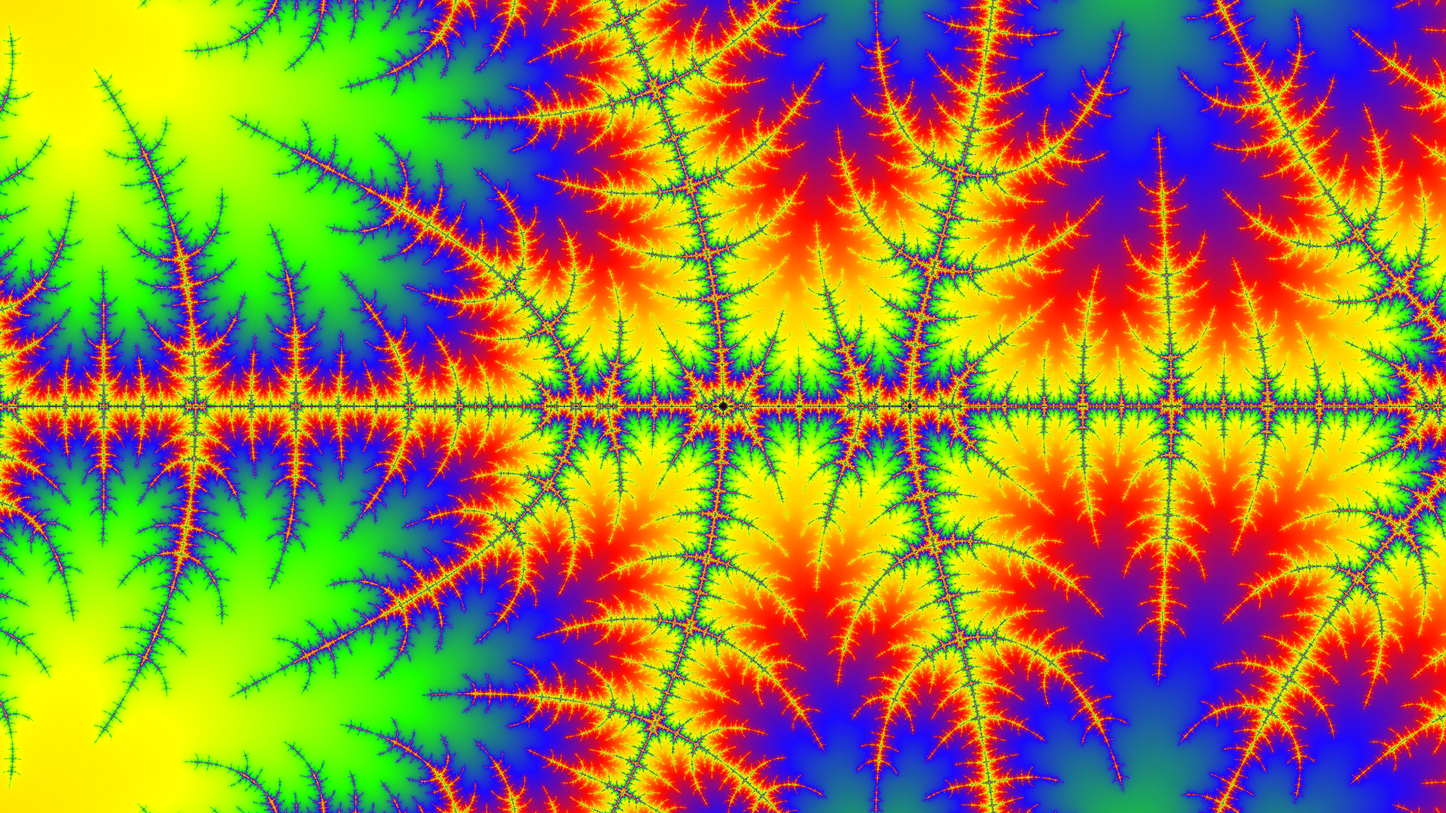
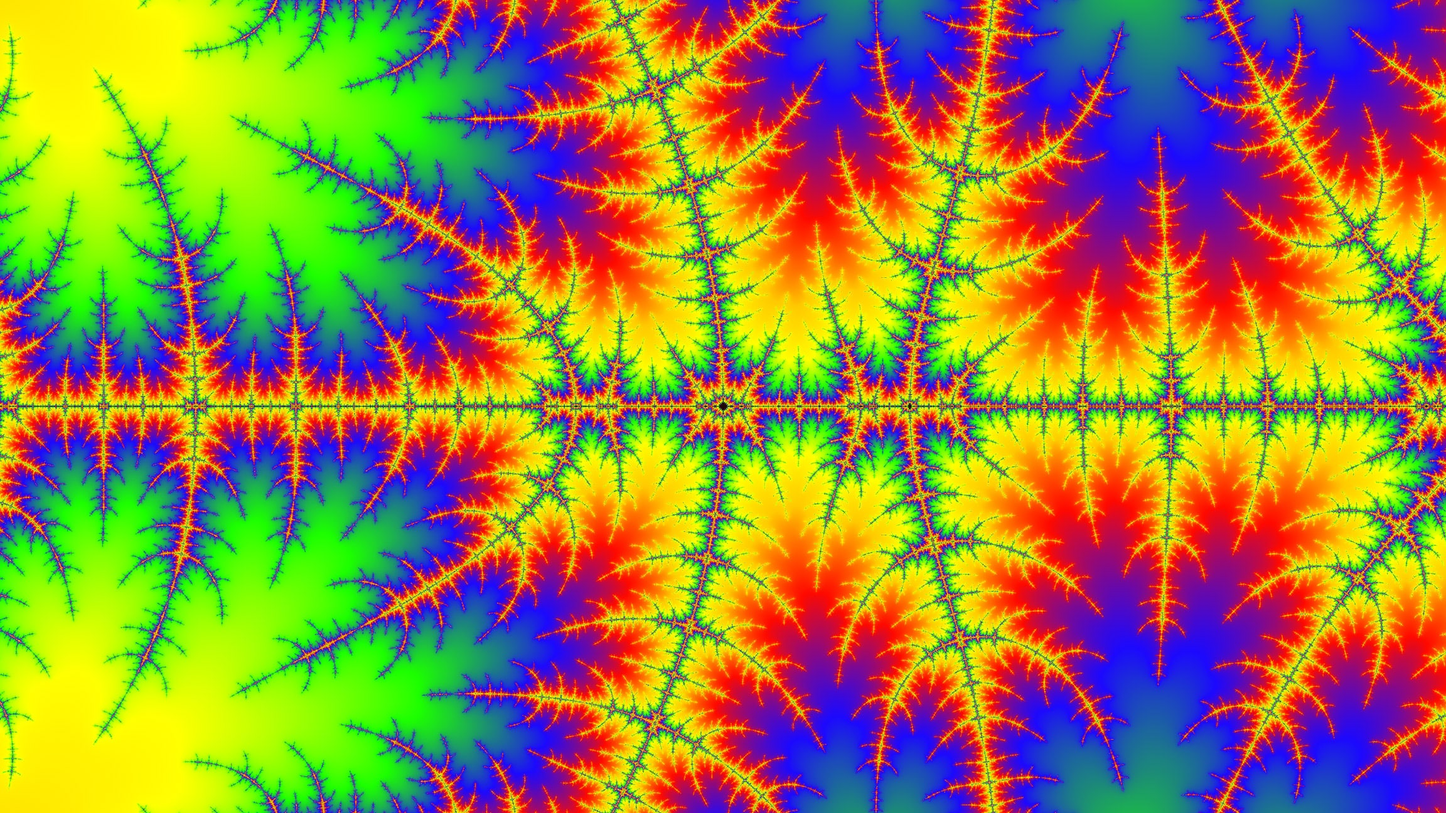
optimized images, added subtitles

diff --git a/mandelbrot.html b/mandelbrot.html
@@ -138,8 +138,13 @@
 							</td>
 						</tr>
 					</table>
+					
+					<div class="font subtitle" style="text-decoration: underline;">What is the Mandelbrot set?</div>
 
-					<div id="player" style="width: 50%; max-width:50em; height:auto;"></div>
+					<div class="videoContainer" style="position: relative; padding-bottom: 28.25%; height:0; width:50%; float: right; margin:1em;">
+						<div id="player" style="position:absolute; top:0; left:0; width:100%; height:100%;"></div>
+					</div>
+					
 					<script>
 					  var tag = document.createElement('script');
 					  tag.src = "https://www.youtube.com/iframe_api";
@@ -192,23 +197,28 @@
 						<br>
 						You then iterate the equation many times, noting the absolute value (distance from the origin) of 
 						\(z\). The value can either grow to infinity or stay bounded near 0. If the value remains 
-						bounded, it is considered to be within the Mandelbrot set and is colored black within the graph. 
+						bounded, it is considered to be within the Mandelbrot set and is colored black on the graph. 
 						All the other colors are derived from how quickly that point diverges, measured by how many 
 						iterations are needed to exceed an arbitrary threshold (2 in this case). In order to say 
-						that a specific \(c\) value is bounded, we must iterate to a limit, else the calculation 
+						that a specific \(c\) value is bounded, we must set a limit, else the calculation 
 						would continue forever! We can increase this limit of iterations, and in doing so, 
-						discover points on the graph that were previously thought to be bounded that are actually unbounded.<br>
-						<br>
+						discover points on the graph that were previously thought to be bounded that are actually unbounded.
 						I was first introduced to this mathematical concept by a popular YouTube channel named <a href="https://www.youtube.com/c/vsauce1" target="_blank">Vsauce</a>. 
 						After watching his <a href="https://www.youtube.com/watch?v=MwjsO6aniig" target="_blank">video</a> I decided I wanted to try to write a program in Java that would generate 
-						a graph of the Mandelbrot set. I had to learn about 2D graphics rendering in Java in order to 
+						a graph of the Mandelbrot set. 
+					</p>
+
+					<div class="font subtitle" style="text-decoration: underline;">The Application</div>
+
+					<p style="text-align: justify;">
+						I had to learn about 2D graphics rendering in Java in order to 
 						properly draw the graph. My first attempts after a month were not very successful. However, after 
 						some work debugging and more research, I was able to produce my first black and white image of 
 						the Mandelbrot set.<br>
-						<img src="/img/mandelbrot_3.png" style="width: 40%; max-width: 50em; height: auto; padding: 1em;">
-						<img src="/img/mandelbrot_4.jpg" style="width: 40%; max-width: 50em; height: auto; padding: 1em;">
+					</p>
+					<img src="/img/mandelbrot_3.png" style="width: 40%; max-width: 50em; height: auto; padding: 1em;">
+					<img src="/img/mandelbrot_4.jpg" style="width: 40%; max-width: 50em; height: auto; padding: 1em;">
 						
-						</p>
 				</div>
 			</div>
 		</div>
